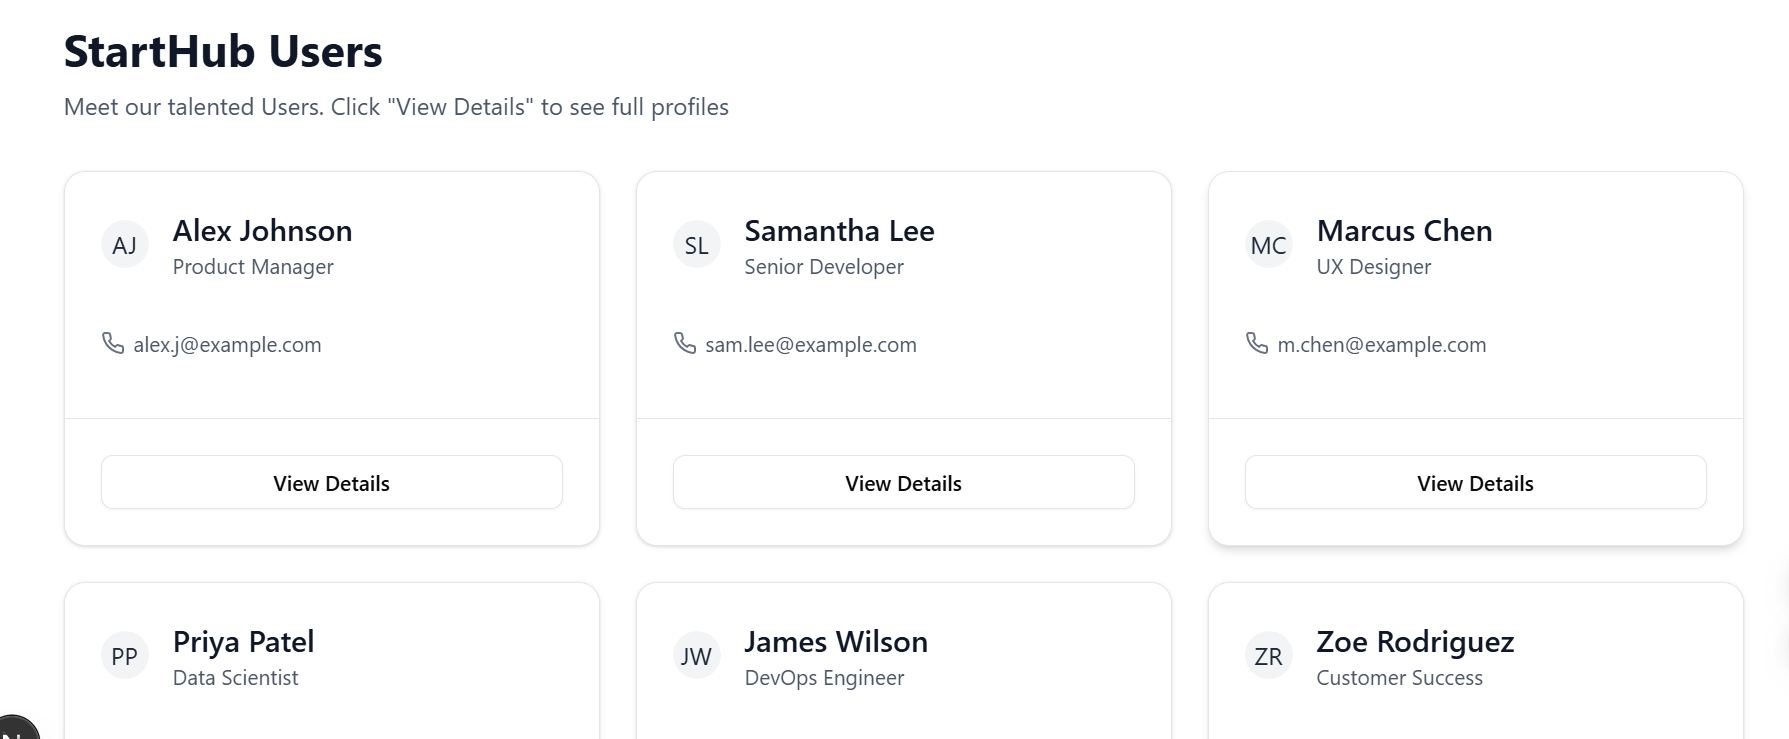
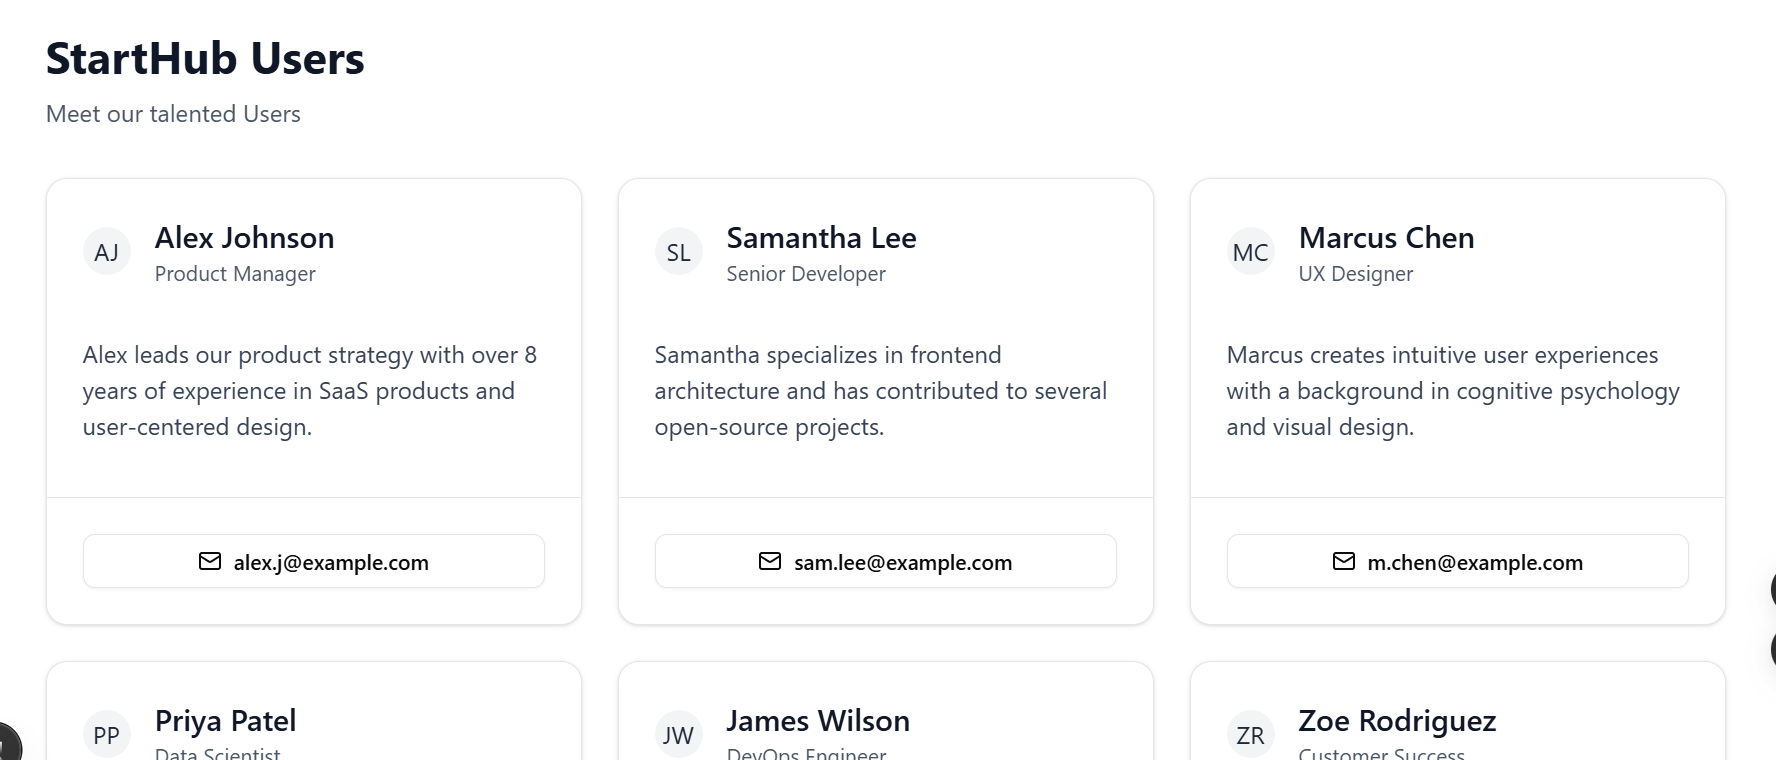
update app image

diff --git a/src/app/page.tsx b/src/app/page.tsx
@@ -24,7 +24,7 @@ export default async function UserListPage() {
       <header className="mb-8">
         <h1 className="text-3xl font-bold text-gray-900 mb-2">StartHub Users</h1>
         <p className="text-gray-600 max-w-3xl">
-          Meet our talented Users. Click &quot;View Details&quot; to see full profiles
+          Meet our talented Users
         </p>
       </header>
 
